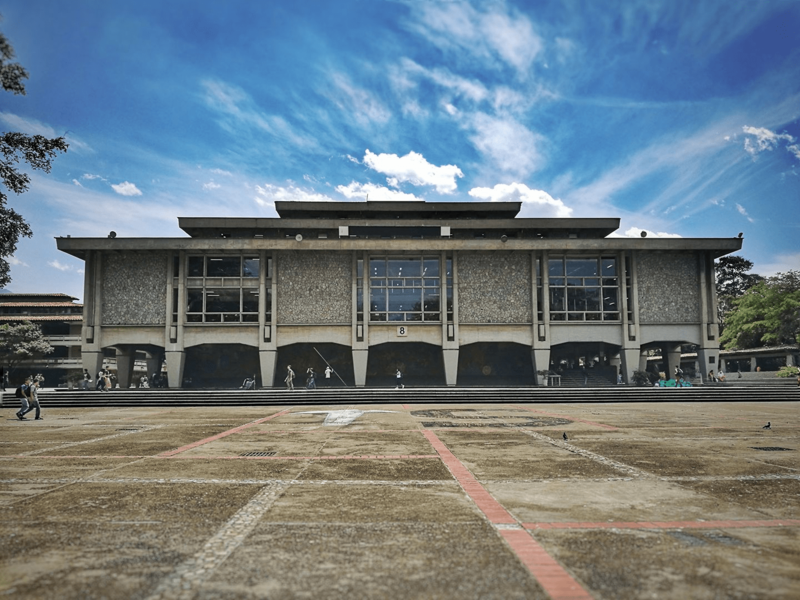
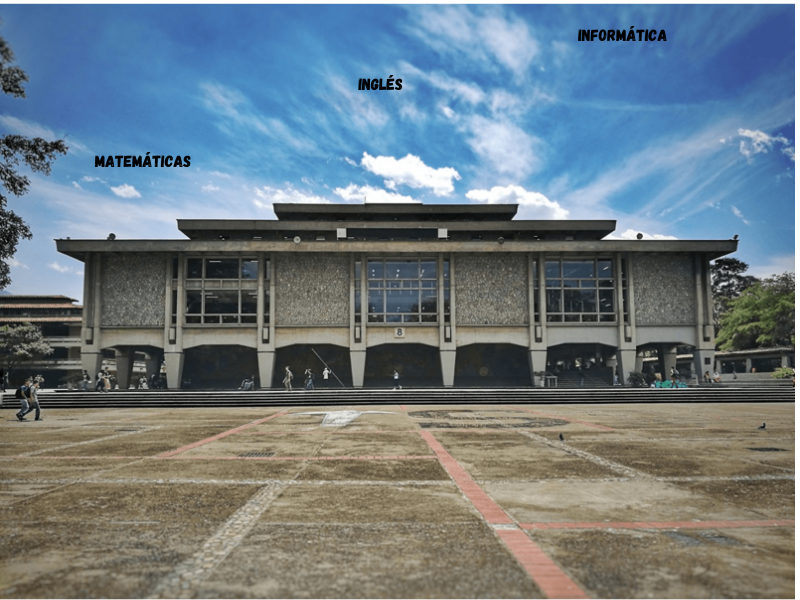
Se añade el fondo

diff --git a/Juego2D/Game.cpp b/Juego2D/Game.cpp
@@ -5,7 +5,9 @@
 #include<AmigoD.h>
 #include<QTimer>
 #include<QMediaPlayer>
-
+#include<QBrush>
+#include<QImage>
+#include<QFont>
 
 Game::Game(QWidget *parent)
 {
@@ -16,7 +18,7 @@ Game::Game(QWidget *parent)
     //***********CREACIÓN ESCENA NIVEL 2****************
     scene = new QGraphicsScene();
     scene->setSceneRect(0,0,800,600);   //En el origen; redefinimos alto y ancho
-
+    setBackgroundBrush(QBrush(QImage(":/imagenes/biblioteca.png")));
     setScene(scene);    //Para poder visualizar la escena
     //***********FIJAR LA ESCENA HORIZONTAL Y VERTICALMENTE****************
     setHorizontalScrollBarPolicy(Qt::ScrollBarAlwaysOff);
@@ -27,7 +29,7 @@ Game::Game(QWidget *parent)
     scene->addItem(nota);
     //***********CREACIÓN JUGADOR*********************
     estudiante = new Jugador();
-    estudiante->setPos(0,500);
+    estudiante->setPos(150,500);
     estudiante->setPixmap(QPixmap(":/imagenes/estudianteM.png"));
 
     //Movimiento del jugador
@@ -42,22 +44,18 @@ Game::Game(QWidget *parent)
     cama = new Distractor();
     cama->setPos(350,300);
     scene->addItem(cama);
-    scene->addText("Procastinación")->setPos(350,280);
     //***********CREACIÓN ASIGNATURAS***************
     mat = new Asignaturas();
     mat->setPos(85,180);
     scene->addItem(mat);
-    scene->addText("Matemáticas")->setPos(85,150);
     //***************************
     english = new Asignaturas();
     english->setPos(350,100);
     scene->addItem(english);
-    scene->addText("Inglés")->setPos(360,75);
     //***************************
     informatica = new Asignaturas();
     informatica->setPos(600,50);
     scene->addItem(informatica);
-    scene->addText("Informática")->setPos(600,25);
     //***********DISPAROS DE AMIGO****************
     QTimer *timer = new QTimer();
     QObject::connect(timer, SIGNAL(timeout()),amigo, SLOT(Disparar()));
@@ -101,17 +99,14 @@ show();
     consola = new Distractor();
     consola->setPos(360,175);
     scene1->addItem(consola);
-    scene1->addText("Xbox")->setPos(375,150);
     //***********CREACIÓN ASIGNATURAS***************
     lecto = new Asignaturas();
     lecto->setPos(200,300);
     scene1->addItem(lecto);
-    scene1->addText("Lectoescritura")->setPos(200,270);
     //***************************
     english = new Asignaturas();
     english->setPos(550,220);
     scene1->addItem(english);
-    scene1->addText("Inglés")->setPos(565,200);
     //***********DISPAROS DE AMIGO****************
     //QTimer *timer = new QTimer();
     QObject::connect(timer, SIGNAL(timeout()),amigo, SLOT(Disparar()));

diff --git a/Juego2D/Jugador.cpp b/Juego2D/Jugador.cpp
@@ -24,12 +24,12 @@ void Jugador::keyPressEvent(QKeyEvent *e)
         }
     }
     else if (e->key() == Qt::Key_Up){
-        //if(pos().y()){
+        if(pos().y()+pixmap().height()>115){
             setPos(x(),y()-10);
-        //}
+        }
     }
     else if (e->key() == Qt::Key_Down){
-        if(pos().y()){
+        if(pos().y()+pixmap().height()+10 <scene()->height()){
             setPos(x(),y()+10);
             }
         }
